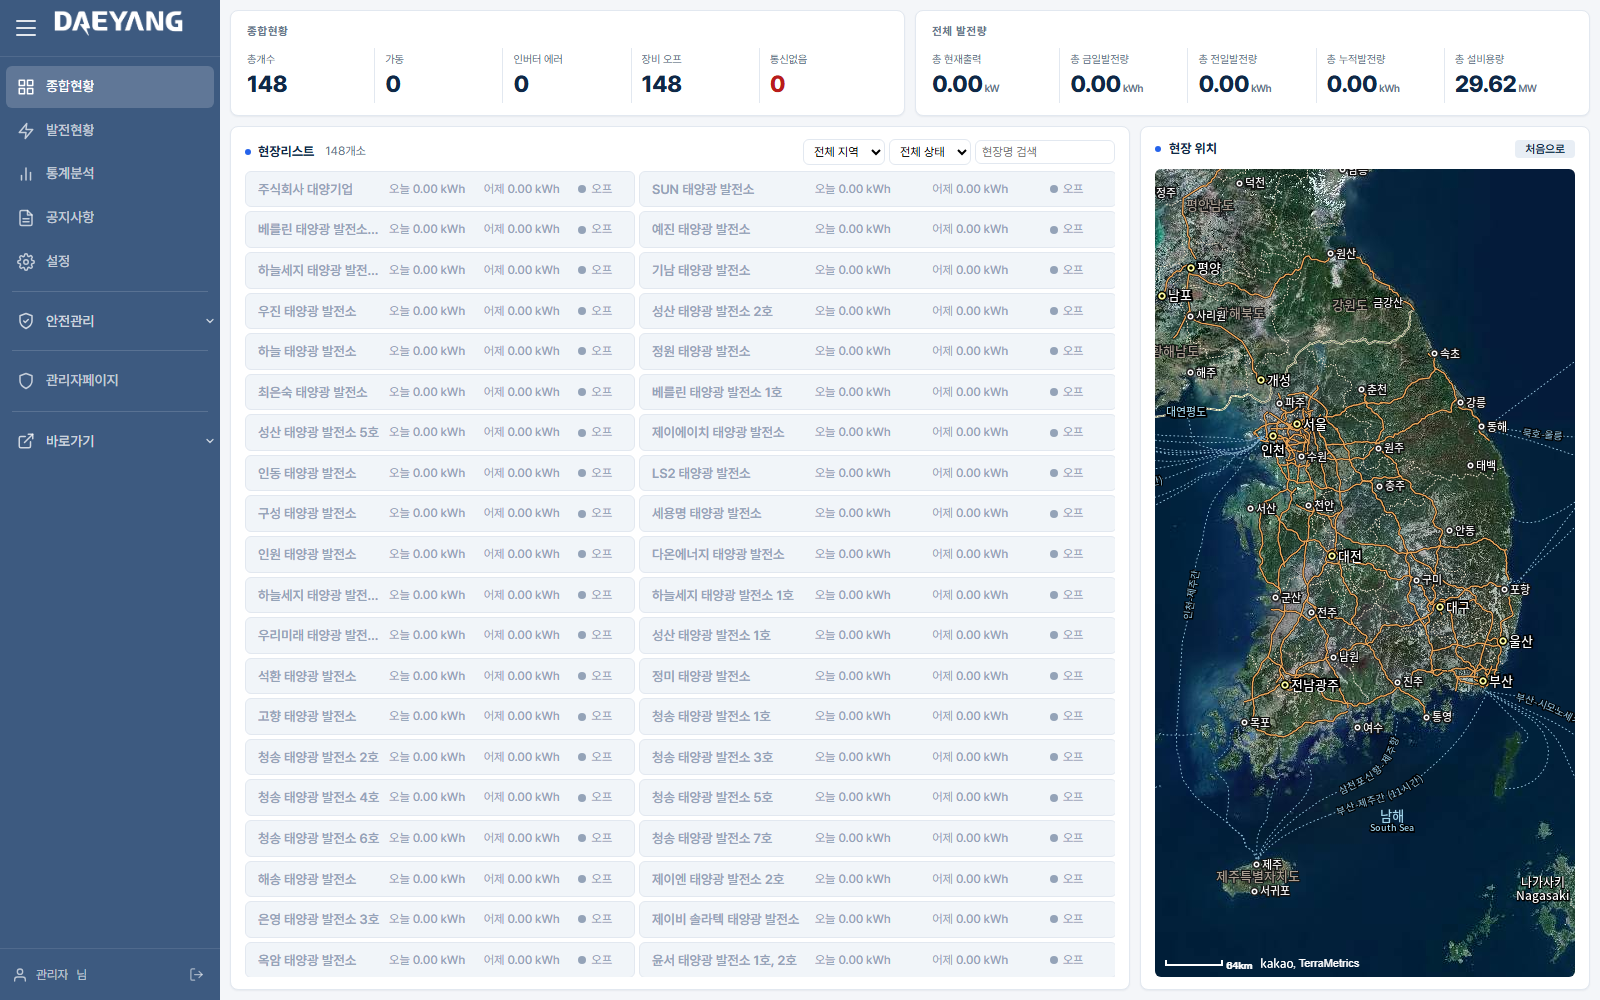
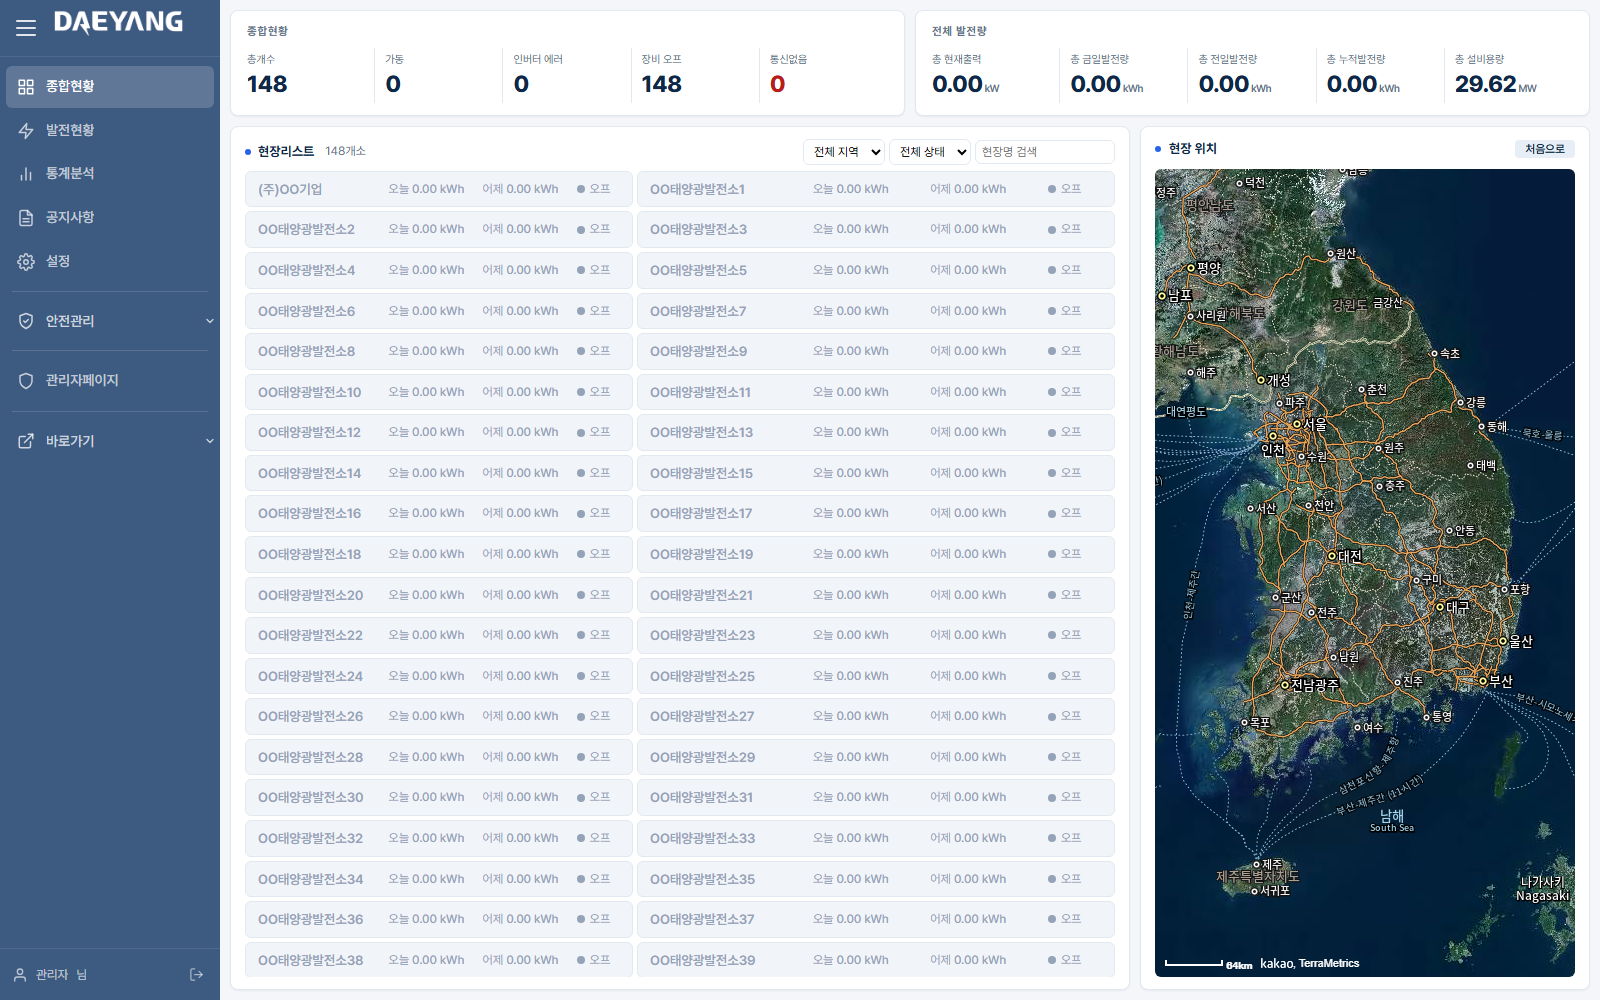
포트폴리오 스크린샷 갱신: 로그인 화면 제거, 페이지별 캡처 추가, 민감정보 마스킹

diff --git a/README.md b/README.md
@@ -15,8 +15,12 @@
 - 상세 기획서: [`docs/SPEC.md`](./atglobal/ao-web/docs/SPEC.md)
 
 <p>
-  <img src="./atglobal/ao-web/docs/screenshots/login.png" width="49%" alt="ao-web 로그인" />
   <img src="./atglobal/ao-web/docs/screenshots/dashboard.png" width="49%" alt="ao-web 대시보드" />
+  <img src="./atglobal/ao-web/docs/screenshots/page-수주현황.png" width="49%" alt="ao-web 수주현황" />
+</p>
+<p>
+  <img src="./atglobal/ao-web/docs/screenshots/page-재고현황.png" width="49%" alt="ao-web 재고현황" />
+  <img src="./atglobal/ao-web/docs/screenshots/page-대리점.png" width="49%" alt="ao-web 대리점 조회" />
 </p>
 
 ### [daeyang/dm-web](./daeyang/dm-web) — 태양광 발전 모니터링 (v2)
@@ -25,8 +29,11 @@
 - **Stack**: React, Express, MariaDB, Google/Kakao/Naver Map API
 
 <p>
-  <img src="./daeyang/dm-web/docs/screenshots/login.png" width="49%" alt="dm-web 로그인" />
   <img src="./daeyang/dm-web/docs/screenshots/dashboard.png" width="49%" alt="dm-web 대시보드" />
+  <img src="./daeyang/dm-web/docs/screenshots/page-발전현황.png" width="49%" alt="dm-web 발전현황" />
+</p>
+<p>
+  <img src="./daeyang/dm-web/docs/screenshots/page-통계분석.png" width="49%" alt="dm-web 통계분석" />
 </p>
 
 ### [daeyang/ht-web](./daeyang/ht-web) — 태양광 세금계산서 발행 시스템
@@ -35,7 +42,6 @@
 - **Stack**: Node.js/Express, MariaDB
 
 <p>
-  <img src="./daeyang/ht-web/docs/screenshots/login.png" width="49%" alt="ht-web 로그인" />
   <img src="./daeyang/ht-web/docs/screenshots/dashboard.png" width="49%" alt="ht-web 대시보드" />
 </p>
 
@@ -44,8 +50,8 @@
 - **Stack**: Node.js/Express, MariaDB
 
 <p>
-  <img src="./daeyang/bd-web/docs/screenshots/login.png" width="49%" alt="bd-web 로그인" />
   <img src="./daeyang/bd-web/docs/screenshots/dashboard.png" width="49%" alt="bd-web 캘린더" />
+  <img src="./daeyang/bd-web/docs/screenshots/page-발전소등록.png" width="49%" alt="bd-web 발전소 등록" />
 </p>
 
 ### [daeyang/dymonitering](./daeyang/dymonitering) — 태양광 통합 모니터링 시스템 (Legacy)
@@ -55,8 +61,8 @@
 - **Stack**: Java, Spring, eGovFrame, MyBatis, MySQL/Oracle
 
 <p>
-  <img src="./daeyang/dymonitering/docs/screenshots/login.png" width="49%" alt="dymonitering 로그인" />
   <img src="./daeyang/dymonitering/docs/screenshots/dashboard.png" width="49%" alt="dymonitering 대시보드" />
+  <img src="./daeyang/dymonitering/docs/screenshots/page-통계분석.png" width="49%" alt="dymonitering 통계분석" />
 </p>
 
 ### [daeyang/485_emulator](./daeyang/485_emulator) — RS485 인버터 통신 에뮬레이터
